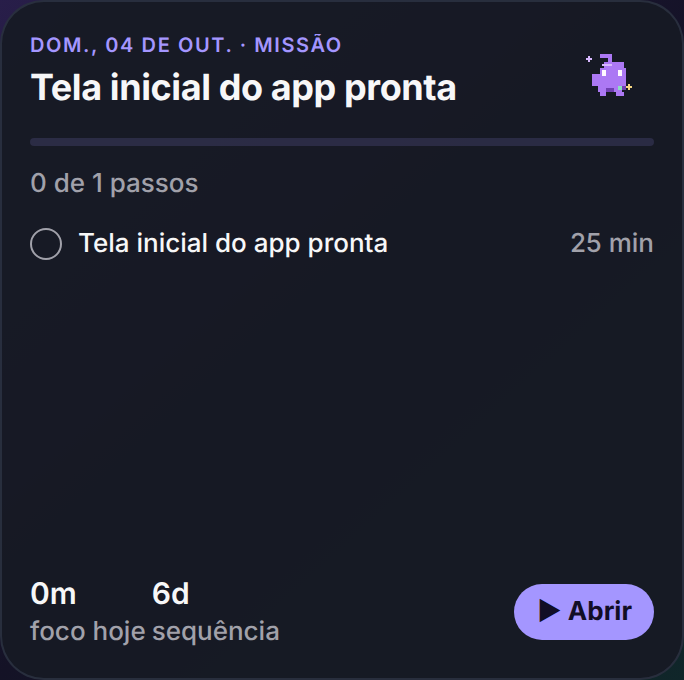
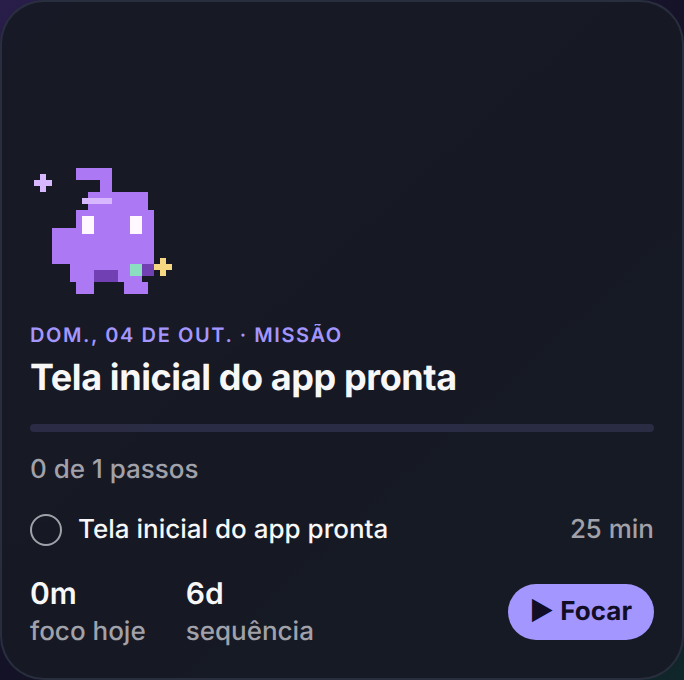
fix(widgets): align the Command preview with the native layout
- The Focar pill reads Focar (or Voltar during a session), as on Android,
  instead of Abrir.
- The mascot stage takes the free space and shrinks as tasks are added,
  like the weight-1 stage in the native layout, so a Command with few
  tasks no longer shows an empty gap under the title.

Claude-Session: https://claude.ai/code/session_016rThdaf6UTxEb1egnU6utv

diff --git a/components/WidgetPreview.tsx b/components/WidgetPreview.tsx
@@ -89,22 +89,20 @@ export function WidgetPreview({ spec: requested, caption = true }: { spec?: Widg
     </View>}
 
     {spec.family === "command" && <View style={styles.stack}>
-      {spec.scene !== "none" && <View style={styles.commandStage}><Habitat spec={spec} /><Mascot spec={spec} size={72} /></View>}
-      <View style={styles.row}>
-        <View style={styles.column}>
-          <Eyebrow color={c.accent}>{new Date().toLocaleDateString("pt-BR", { weekday: "short", day: "2-digit", month: "short", timeZone: data.profile?.timezone })} · Missão</Eyebrow>
-          <NexusText variant="title" color={c.text} numberOfLines={2}>{mission}</NexusText>
-        </View>
-        {spec.scene === "none" && <Mascot spec={spec} size={44} />}
+      {/* Native Command gives the mascot stage weight 1: it absorbs free space and shrinks as tasks are added. */}
+      <View style={[styles.commandStage, !spec.mascot.visible && spec.scene === "none" && styles.commandStageEmpty]}><Habitat spec={spec} /><Mascot spec={spec} size={Math.max(40, 88 - tasks.length * 12)} /></View>
+      <View style={styles.titleBlock}>
+        <Eyebrow color={c.accent}>{new Date().toLocaleDateString("pt-BR", { weekday: "short", day: "2-digit", month: "short", timeZone: data.profile?.timezone })} · Missão</Eyebrow>
+        <NexusText variant="title" color={c.text} numberOfLines={2}>{mission}</NexusText>
       </View>
       {!spec.privateMode && <><Bar value={progress} accent={c.accent} /><NexusText variant="caption" color={c.secondaryText}>{total > 0 ? `${completed} de ${total} passos` : spec.emptyState.actionLabel}</NexusText></>}
       <TaskRows tasks={tasks} spec={spec} />
-      <View style={[styles.row, styles.footer]}>
-        {spec.privateMode ? <NexusText variant="caption" color={c.secondaryText} style={styles.column}>Conteúdo protegido.</NexusText> : <View style={[styles.row, styles.column]}>
+      <View style={[styles.row, !spec.mascot.visible && spec.scene === "none" && styles.footer]}>
+        {spec.privateMode ? <NexusText variant="caption" color={c.secondaryText} style={styles.column}>Conteúdo protegido.</NexusText> : <View style={[styles.row, styles.column, styles.metrics]}>
           <Metric value={runtime?.status === "running" ? `${Math.floor(runtime.elapsedBase / 60)}m` : `${focusMinutes}m`} label={runtime?.status === "running" ? "sessão" : "foco hoje"} color={c} />
           <Metric value={`${data.progress.currentStreak}d`} label="sequência" color={c} />
         </View>}
-        <FocusPill accent={c.accent} label={spec.actions.tap === "focus" || runtime ? "Focar" : "Abrir"} />
+        <FocusPill accent={c.accent} label={runtime?.status === "running" || runtime?.status === "paused" ? "Voltar" : "Focar"} />
       </View>
     </View>}
 
@@ -224,9 +222,12 @@ const styles = StyleSheet.create({
   checkMark: { fontSize: 10, lineHeight: 12, fontWeight: "800" },
   done: { textDecorationLine: "line-through" },
   stage: { flex: 1, minHeight: 120, alignItems: "flex-start", justifyContent: "flex-end", paddingLeft: 4 },
-  commandStage: { height: 96, marginHorizontal: -14, marginTop: -14, alignItems: "flex-start", justifyContent: "flex-end", paddingLeft: 14, overflow: "hidden" },
+  commandStage: { flex: 1, minHeight: 48, marginHorizontal: -14, marginTop: -14, alignItems: "flex-start", justifyContent: "flex-end", paddingLeft: 14, paddingTop: 10, overflow: "hidden" },
+  commandStageEmpty: { flex: 0, minHeight: 0, height: 0, paddingTop: 0 },
   speech: { borderTopWidth: 1, marginHorizontal: -14, marginBottom: -14, paddingHorizontal: 14, paddingVertical: 10 },
   footer: { marginTop: "auto" },
+  titleBlock: { gap: 3 },
+  metrics: { gap: 20 },
   timer: { alignItems: "center", justifyContent: "space-between", gap: 6 },
   clock: { fontSize: 22, lineHeight: 26, fontVariant: ["tabular-nums"] },
   captureTile: { width: 48, height: 48, borderRadius: 15, alignItems: "center", justifyContent: "center" },
